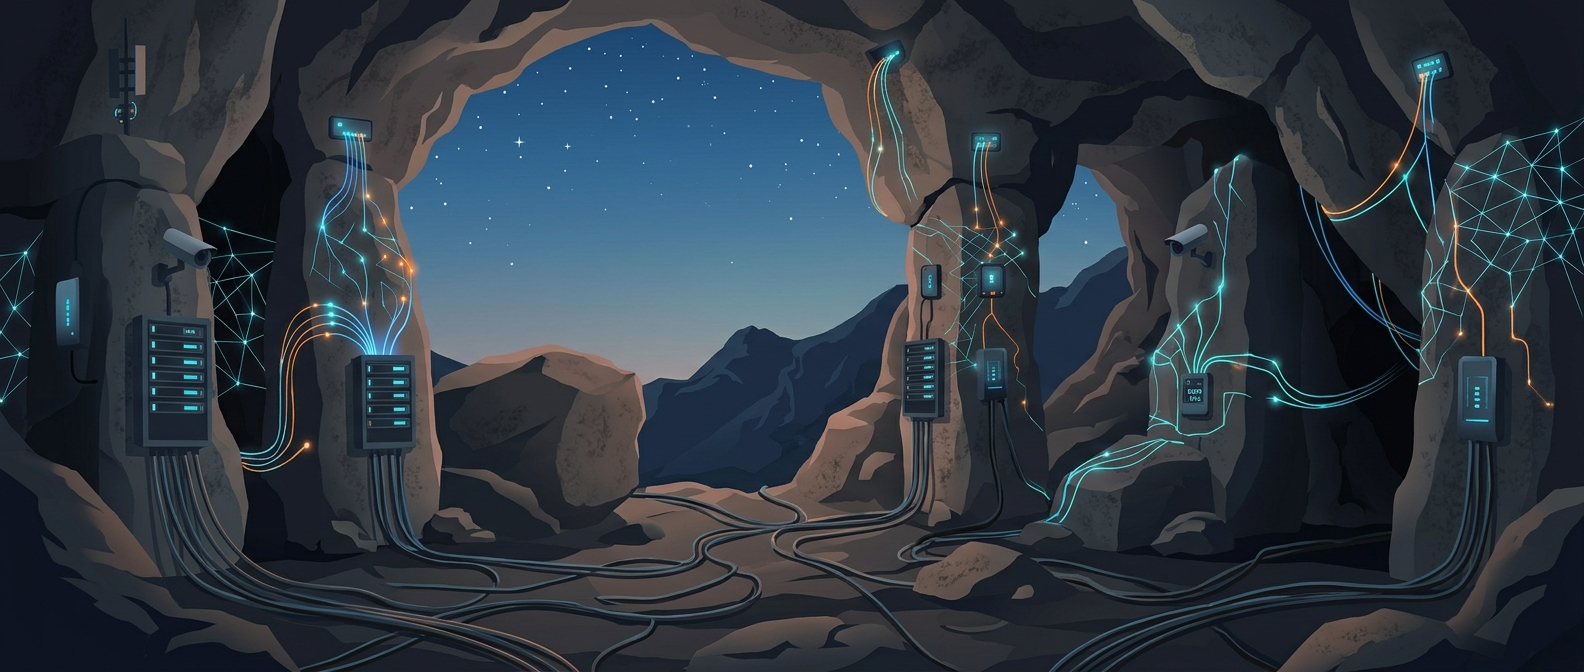
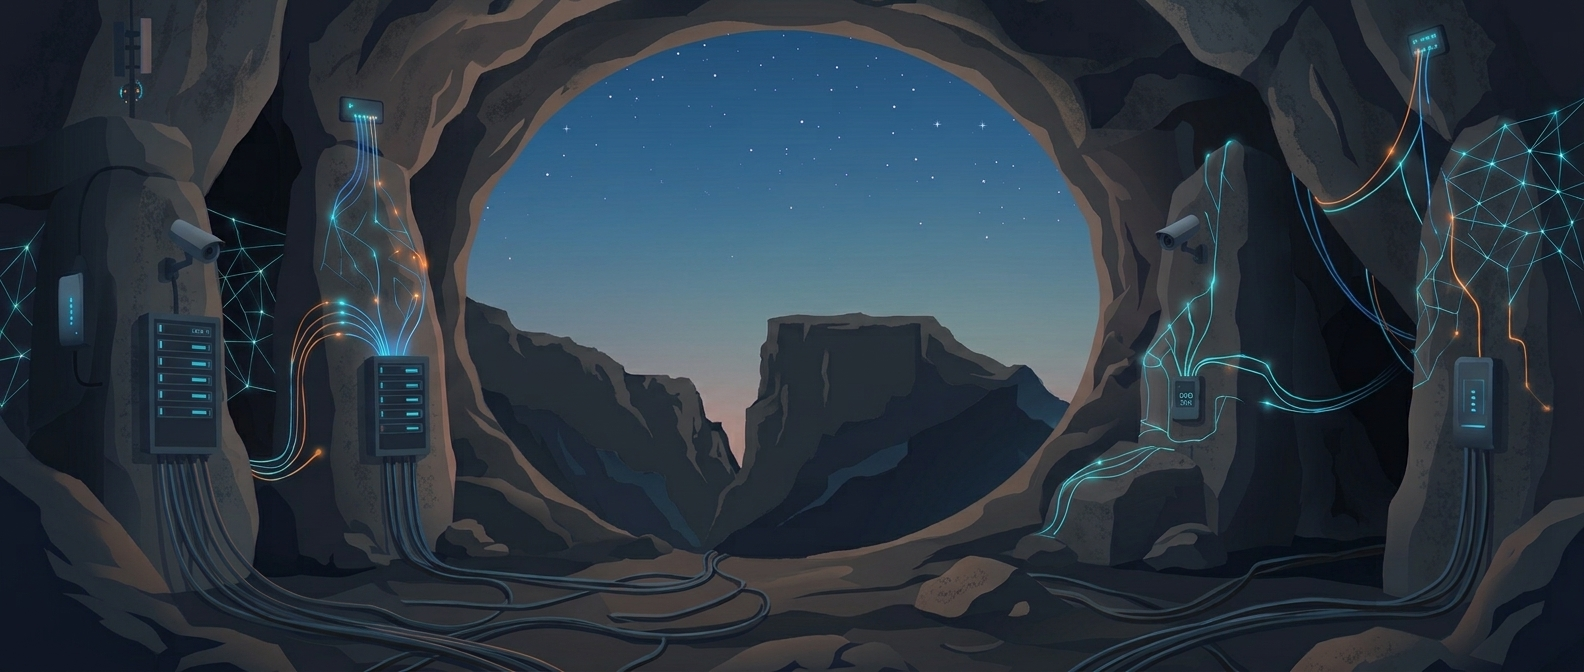
updated blog post

diff --git a/content/blog/2026-10-19-stone-age-platform.md b/content/blog/2026-10-19-stone-age-platform.md
@@ -1,9 +1,9 @@
 ---
-title: "Stone-Age.io: One Record Is the Host, Its Login, and Its Keys"
+title: "One Row Is the Device, Its Login, and Its Keys"
 date: "2026-10-19"
 author: "Brian Miller"
 slug: "stone-age-platform"
-excerpt: "The multi-tenant IoT platform we built on the PocketBase + NATS pattern, and the parts of it we don't claim"
+excerpt: "An MIT-licensed multi-tenant IoT platform where a device's inventory row, its NATS user, and its Nebula certificate are the same record"
 tags: ["nats", "pocketbase", "nebula", "golang", "iot"]
 image: "/images/blog/stone-age-platform.jpg"
 imageAlt: "Stone-Age.io platform"
@@ -12,7 +12,7 @@ imageAlt: "Stone-Age.io platform"
 
 Last November we [wrote up the PocketBase + NATS pattern](https://www.816tech.com/blog/pocketbase-nats-pattern): use PocketBase as a control plane, use `pb-nats` to mint NATS account and user JWTs from database records, and push the account claims over `$SYS.REQ.CLAIMS.UPDATE` so nothing restarts. User JWTs are signed by the account and presented by the client, so they never need pushing at all. That post ended by saying the libraries were the foundation of a platform we were building.
 
-That platform is [Stone-Age.io](https://stone-age.io), it's at v0.13.0, and it's MIT licensed. This post is what it turned into and where we think it fits.
+That platform is [Stone-Age.io](https://stone-age.io), and it's MIT licensed. This post is what it turned into and where we think it fits.
 
 ### A second job to learn
 
@@ -103,7 +103,7 @@ docker run -d --name stone-age \
 
 Then, against a throwaway database, `./stone-age demo-seed --confirm` builds three tenants with locations on a real map, a fleet of things and gateways, NATS roles, signed identities and a Nebula network with a lighthouse. It runs through the same provisioning hooks the console uses, so what you get is what you'd have built by hand.
 
-It's early, and we'd rather hear where it breaks than have it starred. If you run NATS in anger and the account provisioning model looks wrong to you, that's the feedback we want most.
+It's early, and we'd rather hear where it breaks than have it starred. If you run NATS in production and think we've got the account provisioning wrong, that's the feedback we want most.
 
 * Platform: [github.com/stone-age-io/platform](https://github.com/stone-age-io/platform)
 * Agent: [github.com/stone-age-io/agent](https://github.com/stone-age-io/agent)
